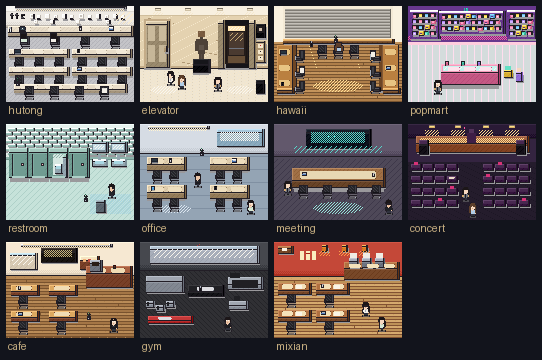
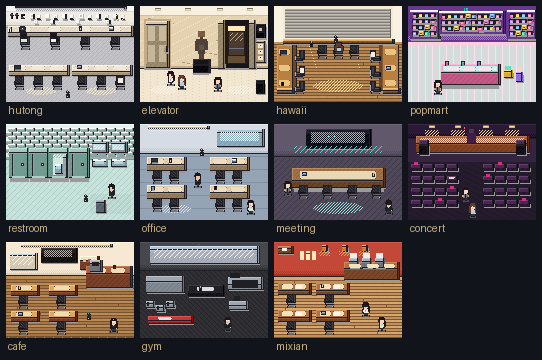
Make hutong exactly two desk rows.
Drop the extra workstation row and the bottom desk strip. Keep the
far-wall long desk with four inward seats, plus one parallel row.

Changed region(s): [[0.0, 0.1222, 0.2657, 0.275]]

diff --git a/public/index.html b/public/index.html
@@ -162,7 +162,7 @@
       </section>
       <section>
         <h2>保留场景 · 11</h2>
-        <p class="note">胡同（远墙四座 + 两行工位 + 底排）/ 电梯间 / 夏威夷（左竖桌3椅 · 窗前3椅 · 右竖桌3椅）/ 泡泡玛特 / 厕所 / 普通工位 / 会议室 / 演唱会 / 咖啡店 / 健身房 / 米线店。</p>
+        <p class="note">胡同（就两排桌子：远墙四座 + 再一排工位）/ 电梯间 / 夏威夷（左竖桌3椅 · 窗前3椅 · 右竖桌3椅）/ 泡泡玛特 / 厕所 / 普通工位 / 会议室 / 演唱会 / 咖啡店 / 健身房 / 米线店。</p>
         <div class="grid" id="rooms"></div>
       </section>
       <section>
@@ -208,8 +208,8 @@
   <script>
     const ROOMS = [
       { id:"hutong", title:"胡同工位区", src:"assets/scenes/hutong/scene_hutong.png",
-        line:"这边还能放杯子。", y:140, t:"09:20", action:"sit_aisle",
-        why:"远墙四座朝墙 + 两行平行工位 + 底部一排。ttc / 镜框。大块空 pad。" },
+        line:"这边还能放杯子。", y:148, t:"09:20", action:"sit_aisle",
+        why:"就两排桌子：远墙四座朝墙 + 再一排平行工位。ttc / 镜框。大块空 pad。" },
       { id:"elevator", title:"电梯间", src:"assets/scenes/elevator/scene_elevator.png",
         line:"先等这梯。", y:140, t:"09:12", action:"wait_lift",
         why:"米黄石材、开门、雕塑台座、屏与按钮。" },

diff --git a/scripts/generate_rooms.py b/scripts/generate_rooms.py
@@ -1,7 +1,7 @@
 #!/usr/bin/env python3
 """11 Laura-named scenes — 2.5D refined pixel, 256×192, empty desk pads.
 
-v3: hawaii 9-seat vertical desks; hutong two rows + bottom + 4 wall seats;
+v3: hawaii 9-seat vertical desks; hutong two desk rows + 4 wall seats;
 concert / cafe / gym / mixian added. Same 1px ink + wall-FACE language.
 """
 from __future__ import annotations
@@ -434,7 +434,7 @@ def office_floor(d, y0, c1, c2, seam):
 
 
 # ===========================================================================
-# 1. 胡同 — 远墙四座 + 两行平行工位 + 底部一排
+# 1. 胡同 — 就两排桌子：远墙一排四座 + 再一排平行工位
 # ===========================================================================
 def scene_hutong() -> Image.Image:
     room = new(W, H, HT["floor"])
@@ -460,7 +460,7 @@ def scene_hutong() -> Image.Image:
             rect(d, [fx + 2, fy + 2, fx + fw - 3, fy + fh - 3], shade(HT["wall_d"], -6))
     dither(d, 220, 12, 254, 36, HT["sun"], 5)
 
-    # TOP wall-flush desk + 4 chairs facing the wall
+    # ROW 1 — wall-flush desk + 4 chairs facing the wall
     prism(d, 4, 40, 248, 14, 8, HT["desk"], HT["desk_e"])
     dither(d, 8, 42, 246, 50, shade(HT["desk"], -12), 8)
     top_bays = (16, 76, 136, 196)
@@ -473,34 +473,22 @@ def scene_hutong() -> Image.Image:
     blit(room, seated_facing_wall("cast_02"), 86, 54)
     blit(room, seated_facing_wall("cast_05"), 26, 54)
 
-    def desk_row(y, left_item, right_item, extra_pad=True):
-        for x, item in ((6, left_item), (132, right_item)):
-            prism(d, x, y, 118, 12, 7, HT["desk"], HT["desk_e"])
-            empty_pad(d, x + 6, y + 2, 22, 8, HT["pad"], shade(HT["desk_e"], 16))
-            empty_pad(d, x + 48, y + 2, 22, 8, HT["pad"], shade(HT["desk_e"], 16))
-            if extra_pad:
-                empty_pad(d, x + 88, y + 2, 22, 8, HT["pad"], shade(HT["desk_e"], 16))
-            if item:
-                blit(room, item, x + 10, y)
-            blit(room, chair_north(), x + 10, y + 16)
-            blit(room, chair_north(), x + 50, y + 16)
-            blit(room, chair_north(), x + 90, y + 16)
+    # ROW 2 — one parallel workstation row (two islands, aisle in the middle)
+    for x, item, jacket in (
+        (6, prop_laptop(), False),
+        (132, prop_notebook(), True),
+    ):
+        prism(d, x, 118, 118, 14, 8, HT["desk"], HT["desk_e"])
+        empty_pad(d, x + 6, 121, 28, 8, HT["pad"], shade(HT["desk_e"], 16))
+        empty_pad(d, x + 44, 121, 28, 8, HT["pad"], shade(HT["desk_e"], 16))
+        empty_pad(d, x + 82, 121, 28, 8, HT["pad"], shade(HT["desk_e"], 16))
+        if item:
+            blit(room, item, x + 10, 118)
+        blit(room, chair_north(), x + 10, 140)
+        blit(room, chair_north(), x + 48, 140)
+        blit(room, chair_north(jacket=jacket), x + 86, 140)
 
-    # two parallel workstation rows (denser: 3 chairs × 2 islands)
-    desk_row(86, prop_laptop(), prop_cup((40, 40, 46, 255)))
-    desk_row(122, None, prop_notebook())
-    # bottom row — chairs sit on the desk's south lip, not past the canvas
-    prism(d, 16, 156, 224, 12, 7, HT["desk"], HT["desk_e"])
-    empty_pad(d, 28, 158, 36, 8, HT["pad"], shade(HT["desk_e"], 16))
-    empty_pad(d, 78, 158, 36, 8, HT["pad"], shade(HT["desk_e"], 16))
-    empty_pad(d, 128, 158, 36, 8, HT["pad"], shade(HT["desk_e"], 16))
-    empty_pad(d, 178, 158, 36, 8, HT["pad"], shade(HT["desk_e"], 16))
-    blit(room, prop_plant(), 18, 144)
-    blit(room, chair_north(), 36, 160)
-    blit(room, chair_north(), 86, 160)
-    blit(room, chair_north(), 136, 160)
-    blit(room, chair_north(jacket=True), 186, 160)
-
+    blit(room, prop_plant(), 118, 168)
     blit(room, prop_spray(), 6, 42)
     return room
 
@@ -1072,10 +1060,10 @@ def scene_mixian() -> Image.Image:
 
 SCENES = [
     dict(id="hutong", title="胡同工位区",
-         blurb="远墙四座朝墙 · 两行平行工位 · 底部再一排 · 大块空 pad",
-         fn=scene_hutong, walk_y=140, line="这边还能放杯子。",
+         blurb="就两排桌子：远墙四座朝墙 + 再一排平行工位 · 大块空 pad",
+         fn=scene_hutong, walk_y=148, line="这边还能放杯子。",
          beat_t="09:20", action="sit_aisle",
-         why="白墙 ttc + 镜框。远墙一条浅色长桌、四把黑椅朝墙。中间两行平行工位岛（每岛三椅三 pad）。底部再一排长桌四 pad。比示意图更密，仍留过道。不描摹合影里的人。"),
+         why="白墙 ttc + 镜框。就两排桌子：远墙一条浅色长桌、四把黑椅朝墙；再一排平行工位岛（中留过道、每岛三椅三 pad）。没有第三排。不描摹合影里的人。"),
     dict(id="elevator", title="电梯间",
          blurb="米黄石材 · 开门体积 · 雕塑台座 · 屏与按钮",
          fn=scene_elevator, walk_y=140, line="先等这梯。",

diff --git a/design/art-brief.md b/design/art-brief.md
@@ -15,7 +15,7 @@
 |------|------|
 | 相机 | 略俯，能看见桌面顶面和椅背 |
 | 角色 | 大头小身 chibi，不是写实肖像 |
-| 深度 | 阴影、墙厚、遮挡；胡同是远墙四座 + 两行工位 + 底排 |
+| 深度 | 阴影、墙厚、遮挡；胡同就两排桌子：远墙四座 + 再一排工位 |
 | 轮廓 | **1px** 深色描边，不要 2px 粗块 |
 | 缩放 | `image-rendering: pixelated`，整数倍 |
 
@@ -23,7 +23,7 @@
 
 | 场景 | 地板 | 光 | 硬规则 |
 |------|------|----|--------|
-| 胡同工位区 | 浅灰地 | 白墙顶灯 | 远墙四座朝墙 + 两行平行工位 + 底部再一排。保留 ttc / 镜框。大块空 pad。不描合影人物 |
+| 胡同工位区 | 浅灰地 | 白墙顶灯 | 就两排桌子：远墙四座朝墙 + 再一排平行工位。保留 ttc / 镜框。大块空 pad。不描合影人物 |
 | 电梯间 | 白石大理石 | 筒灯暖白 | 米黄石材、开门、雕塑、屏与按钮 |
 | 夏威夷 | 暖木 | 卷帘缝日光 | 朝窗：左竖桌+右侧 3 椅，窗前 3 椅，右竖桌+旁 3 椅。约九座。奶油墙。hawaii-ref 只取气氛 |
 | 泡泡玛特 | 粉×薄荷细格 | 粉/青灯带 | 柜台不要堆死 |

diff --git a/design/scenes/hutong.md b/design/scenes/hutong.md
@@ -2,9 +2,9 @@
 
 > 精致像素 · 256×192 · 2.5D · 桌面留物位
 
-远墙四座朝墙 · 两行平行工位 · 底部再一排 · 大块空 pad
+就两排桌子：远墙四座朝墙 + 再一排平行工位 · 大块空 pad
 
-白墙 ttc + 镜框。远墙一条浅色长桌、四把黑椅朝墙。中间两行平行工位岛（每岛三椅三 pad）。底部再一排长桌四 pad。比示意图更密，仍留过道。不描摹合影里的人。
+白墙 ttc + 镜框。就两排桌子：远墙一条浅色长桌、四把黑椅朝墙；再一排平行工位岛（中留过道、每岛三椅三 pad）。没有第三排。不描摹合影里的人。
 
 - `public/assets/scenes/hutong/scene_hutong.png`
 - `public/preview/zoomed/hutong.png`

diff --git a/README.md b/README.md
@@ -46,7 +46,7 @@ npx --yes serve public -p 4173
 
 | ID | 中文 | 要点 | 路径 |
 |----|------|------|------|
-| `hutong` | 胡同工位区 | 远墙四座朝墙 + 两行平行工位 + 底部一排 | `public/assets/scenes/hutong/` |
+| `hutong` | 胡同工位区 | 就两排桌子：远墙四座朝墙 + 再一排平行工位 | `public/assets/scenes/hutong/` |
 | `elevator` | 电梯间 | 米黄石材、开门、雕塑台座、屏与按钮 | `public/assets/scenes/elevator/` |
 | `hawaii` | 夏威夷 | 朝窗：左竖桌 3 椅 · 窗前 3 椅 · 右竖桌 3 椅 | `public/assets/scenes/hawaii/` |
 | `popmart` | 泡泡玛特店 | 细格盲盒墙，柜台留空 | `public/assets/scenes/popmart/` |

diff --git a/design/day-in-life.md b/design/day-in-life.md
@@ -28,7 +28,7 @@
 
 ### 2 · 09:20 · 胡同工位区
 - `sit_aisle` 「这边还能放杯子。」
-- 白墙 ttc + 镜框。远墙一条浅色长桌、四把黑椅朝墙。中间两行平行工位岛（每岛三椅三 pad）。底部再一排长桌四 pad。比示意图更密，仍留过道。不描摹合影里的人。
+- 白墙 ttc + 镜框。就两排桌子：远墙一条浅色长桌、四把黑椅朝墙；再一排平行工位岛（中留过道、每岛三椅三 pad）。没有第三排。不描摹合影里的人。
 
 ### 3 · 09:40 · 夏威夷
 - `open_laptop` 「窗边这档先开。」
